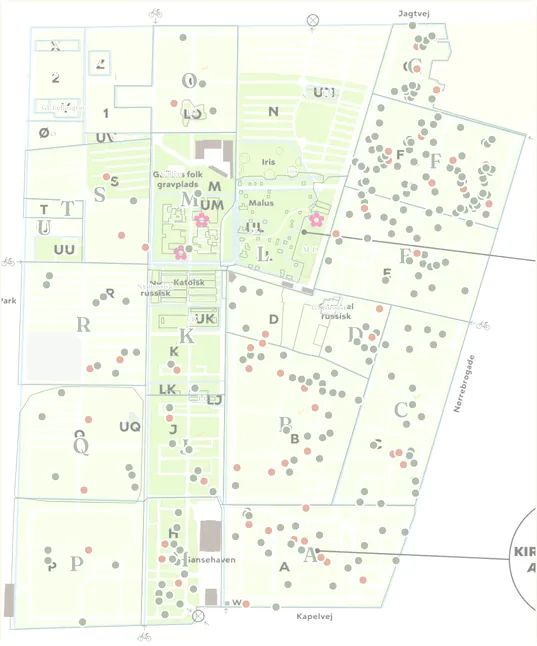
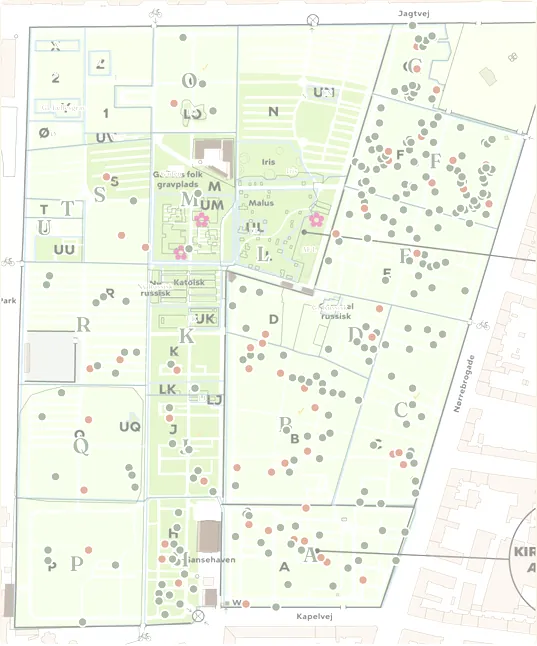
Skærmbilleder genskabt med OSM-laget; notat om dækning, pasning og licensopslag (#12)
scripts/grundkort_skaermbilleder.mjs: genskaber docs/grundkort/ (telefon
390 × 844, DPR 3, kalibrering tændt; lys/mørk, med/uden 🔲, sol-simulering,
luppen) med Playwright og Pillow, så sammenligningstavlen kan laves om, hver
gang grundlagene renderes.

NOTAT-grundkort.md: nyt afsnit "OSM: dækning og pasning" (673 elementer
inden for omridset; OSM-omrids mod kommunens polygoner median 0,3 m;
gadenavne-fejlen og rettelsen), filstørrelser med OSM-laget, og
rettighedsafsnittet efter opslag i opendata.dk's register (216 datasæt fra
Københavns Kommune, 196 CC BY 4.0, 2 CC0, ingen dækker de tre kirkegårdslag)
og WFS'ens GetCapabilities (Fees/AccessConstraints NONE). "Ikke gjort"
tilpasset: OSM gjort, licensen stadig ubekræftet, felttest og afdeling U
udestår.

diff --git a/NOTAT-grundkort.md b/NOTAT-grundkort.md
@@ -5,8 +5,8 @@ skal skiftes fra Københavns Kirkegårdes (KK) oversigtskort til projektets eget
 kort af åbne data. Notatet beskriver den tekniske plan, de tre designretninger,
 rettighederne, hvad en pitch skal kunne vise, og en felttest-protokol. Alt
 bygget i denne omgang ligger bag kalibreringsknapperne; besøgende ser stadig
-`kort.png`. Netadgangen fra sessionen var begrænset til GitHub og websøgning,
-så OSM-udtrækket kunne ikke hentes; hvad det betyder, står under “Ikke gjort”.*
+`kort.png`. OSM-udtrækket blev hentet 7. oktober fra en maskine med net; alle
+renderinger, tal og skærmbilleder i notatet er med OSM-laget (se “Ikke gjort”).*
 
 ## Konklusion i fem linjer
 
@@ -121,7 +121,7 @@ står øverst i scriptet). Ingen af filerne i `data/` kræver et `VERSION`-bump.
 
 ### Migrationen som commits
 
-1. **OSM-udtræk** (Simon, fra en maskine med netadgang): kør curl-kommandoen
+1. **OSM-udtræk** (gjort 7. oktober; gentages, når OSM er rettet): kør curl-kommandoen
    i `scripts/osm_slank.mjs`, læg svaret i `data/raw/osm_assistens.json`,
    kør `node scripts/osm_slank.mjs …` og `node scripts/kort_render.mjs`;
    commit `data/osm_assistens.json`, de genererede grundlag og
@@ -155,14 +155,15 @@ står øverst i scriptet). Ingen af filerne i `data/` kræver et `VERSION`-bump.
 kalibrering tændt ligger i `docs/grundkort/` (`<grundlag>_<lys|moerk>_<lag|uden>.webp`,
 `sol_*.webp` er sol-simuleringen, `lup_*.webp` luppen) og i PR'ens
 sammenligningstavle. Målinger: design-rapporten `/tmp/design/rapport.md`
-fra sessionen; tallene står i afsnit “Tal”. Alle renderinger er uden
-OSM-lag, så stier, mure, bygninger og gadenavne mangler i alle tre.*
+fra sessionen; tallene står i afsnit “Tal”. Skærmbillederne er genskabt
+7. oktober med `scripts/grundkort_skaermbilleder.mjs`, efter at OSM-laget kom
+ind: stier, mure, låger, bygninger og gadenavne er med i alle tre.*
 
 | | tegnet plan | stille kort | ortofoto med lag |
 |---|---|---|---|
 | **Idé** | streg og flade som en klassisk kirkegårdsplan: papir, blæk-konturer, Fraunces 600-bogstaver, svag kronetekstur og gravstedsprikker | flade, dæmpede mos-toner uden konturer, stier som lyse mellemrum, Outfit-bogstaver | GeoDanmarks forårsfoto dæmpet (lys: papirslør; mørk: nedtonet), så vektorlaget bærer bogstaver og grænser |
-| **For** | gentager headerens udtryk (Fraunces, papir/blæk); højeste kontrast (11:1 lys, 10:1 mørk); holder bedst i sol; en rigtig mørk udgave | roligst som baggrund for prikkerne; mindste fil (46 KB); markørerne træder tydeligst frem | viser det, man ser i felten (kroner, stier, tage); passer kommunens grænser inden for ca. 0,5 m; luppen får noget at sigte efter |
-| **Imod** | uden OSM fattigere end KK (ingen stier/låger); underafdelingsnavne 3 CSS-px på telefon; luppen viser kun tekstur | grænser og tekstur forsvinder helt i sol; bogstaver kun 4,9–5,3:1; Outfit-bogstaver bryder med headerens Fraunces | lys tilstand 3,3–3,5:1 for bogstav mod foto (haloen redder det); tungest (291 KB / 811 KB 2×); gråt foto mod papir/mos-paletten |
+| **For** | gentager headerens udtryk (Fraunces, papir/blæk); højeste kontrast (11:1 lys, 10:1 mørk); holder bedst i sol; en rigtig mørk udgave | roligst som baggrund for prikkerne; mindste fil (116 KB webp, 79 KB avif); markørerne træder tydeligst frem | viser det, man ser i felten (kroner, stier, tage); passer kommunens grænser inden for ca. 0,5 m; luppen får noget at sigte efter |
+| **Imod** | over budgettet med OSM-laget (256 KB webp, 133 KB avif); underafdelingsnavne 3 CSS-px på telefon; luppen viser kun tekstur | grænser og tekstur forsvinder helt i sol; bogstaver kun 4,9–5,3:1; Outfit-bogstaver bryder med headerens Fraunces | lys tilstand 3,3–3,5:1 for bogstav mod foto (haloen redder det); tungest (292 KB / 826 KB 2×); gråt foto mod papir/mos-paletten |
 | **Telefon i sol** | bedst: bogstaver 2,4:1 efter simuleringen, kontur og mur overlever | dårligst: fladen bliver hvid, kun bogstaverne står | bogstaverne holder via haloen; tynde grænser forsvinder først |
 | **Mørk tilstand** | 9,7–10,9:1, blænder ikke | 5,1–5,3:1, lidt gråt | 4,9–5,3:1 med SVG-laget; fotoet er dæmpet nok |
 
@@ -198,9 +199,10 @@ frarådes som standard på grund af sol. Valget bekræftes i felttesten
 
 *Ikke juridisk rådgivning. Kilderne til dette afsnit er samlet i rettigheds-
 rapporten fra sessionen (ODbL 1.0 og CC BY 4.0 læst i kopier på GitHub;
-OSMF's retningslinjer, ophavsretsloven og opendata.dk's vilkår kun som
-søgeuddrag, fordi siderne var blokeret). Alt, der kun hviler på søgeuddrag,
-bør tjekkes mod originalen, før det citeres i en pitch.*
+OSMF's retningslinjer og ophavsretsloven kun som søgeuddrag, fordi siderne
+var blokeret; opendata.dk's register og kommunens WFS er slået op direkte
+7. oktober). Alt, der kun hviler på søgeuddrag, bør tjekkes mod originalen,
+før det citeres i en pitch.*
 
 ### Hvad der er taget fra KK's kort, og hvad der bevidst ikke er
 
@@ -256,16 +258,18 @@ bør tjekkes mod originalen, før det citeres i en pitch.*
 
 ### Kommunens data og GeoDanmark
 
-- `trae_basis` har en datasætside på opendata.dk med licens CC BY 4.0. For
-  `kirkegd_afdelingsgr_1`, `kirkegd_gravsteder` og
-  `automatisk_detekterede_traeer_kk_beta` findes ingen datasætside, og
-  GetCapabilities oplyser ingen licens. Open Data DK's vilkår lader
-  dataejeren sætte licensen pr. datasæt, og kommunen bruger mindst ét andet
-  vilkårssæt (“Legepladser”), så “kommunens standardlicens” er en svagere
-  antagelse, end `data/README.md` lader forstå. **Forbehold:** CC BY 4.0 er
-  ikke bekræftet; spørg Københavns Kommune (Klima-, Miljø- og
-  Teknikforvaltningen, enheden bag kbhkort/WFS; kontaktpunktet står på
-  datasætsiden for Træ basis). Mail-udkast:
+- `trae_basis` har en datasætside på opendata.dk, hvor begge ressourcer er
+  mærket “CC_BY” (feltet `license_id` i CKAN-API'et er tomt). Slået op
+  7. oktober 2026 i opendata.dk's register (CKAN-API'et på admin.opendata.dk):
+  Københavns Kommune har 216 datasæt, 196 under CC BY 4.0, 2 under CC0 1.0
+  (“Toiletter TMF”, “Vejstøj 2022”) og 18 uden licensfelt. **Ingen** af dem
+  dækker `kirkegd_afdelingsgr_1`, `kirkegd_gravsteder` eller
+  `automatisk_detekterede_traeer_kk_beta`, og WFS'ens GetCapabilities siger
+  kun `Fees: NONE` og `AccessConstraints: NONE` uden licens pr. lag.
+  Licensen sættes altså pr. datasæt (CC0 forekommer), så “kommunens
+  standardlicens” er en antagelse. **Forbehold:** CC BY 4.0 er ikke
+  bekræftet for de tre lag; spørg Bydata, Københavns Kommune (bydata@kk.dk,
+  dataejer ifølge WFS'en og datasætsiden for Træ basis). Mail-udkast:
 
   > **Emne:** Licens for WFS-lagene kirkegd_afdelingsgr_1 og kirkegd_gravsteder
   >
@@ -360,21 +364,27 @@ KB = 1024 byte; webp med Pillow quality 85, avif quality 62). Målet er
 
 | Grundlag (1×, 1400 × 1216) | PNG | WebP | AVIF | 2× WebP | 2× AVIF |
 |---|--:|--:|--:|--:|--:|
-| tegnet plan, lys | 564 | **83** | 63 | 209 | 139 |
-| tegnet plan, mørk | 543 | 78 | 55 | 203 | 127 |
-| stille kort, lys | 477 | **46** | 34 | 113 | 71 |
-| stille kort, mørk | 436 | 36 | 27 | 91 | 57 |
-| ortofoto, lys | 2639 | **291** | 207 | 811 | 634 |
-| ortofoto, mørk | 2329 | 205 | 152 | 589 | 461 |
-| `afdelinger.svg` | | 24 | | | |
+| tegnet plan, lys | 681 | **256** | 133 | 675 | 301 |
+| tegnet plan, mørk | 657 | 254 | 131 | 671 | 296 |
+| stille kort, lys | 546 | **116** | 79 | 271 | 170 |
+| stille kort, mørk | 526 | 102 | 70 | 236 | 148 |
+| ortofoto, lys | 2628 | **292** | 208 | 826 | 638 |
+| ortofoto, mørk | 2351 | 208 | 154 | 576 | 465 |
+| `afdelinger.svg` | | 129 | | | |
 
-Tegnet plan og stille kort ligger under det nuværende `kort.webp` selv som
-1×-webp, og selv 2×-avif til skarpe skærme (127–139 KB for tegnet plan,
-57–71 KB for stille kort) er mindre end dagens png.
-Ortofotoet ligger 2–3 gange over budgettet i 1× og 6–8 gange i 2×; det kan
-være et lag, der hentes på forlangende (som i dag), ikke et standardgrundlag
-offline. Renderingerne er **uden OSM-lag** (se “Ikke gjort”); stier,
-bygninger og gadenavne vil lægge nogle få KB til tegnet plan og stille kort.
+Tallene er med OSM-laget (7. oktober). Uden laget var tegnet plan 83 KB og
+stille kort 46 KB som webp og `afdelinger.svg` 24 KB, så OSM-laget (nabo-
+karréernes bygninger, stierne, murene og gadenavnene) koster tegnet plan
+ca. 170 KB og stille kort ca. 70 KB i 1×-webp; hvad hver del vejer, er ikke
+målt. Stille kort ligger nu omtrent på budgettet (116 KB webp mod
+`kort.webp`s 102, 79 KB avif mod `kort.avif`s 76), tegnet plan 2,5 gange over
+som webp og 1,75 gange over som avif. To greb, der ikke er prøvet: tegn
+bygninger uden for muren som flade uden skravering, og klip OSM-laget til en
+smal bræmme om kirkegården. `afdelinger.svg` bærer nu også mure og bygninger
+for hele udsnittet; Pages sender den gzippet, så 129 KB bliver langt mindre
+over nettet. Ortofotoet ligger 3 gange over budgettet i 1× og 8 gange i 2×;
+det kan være et lag, der hentes på forlangende (som i dag), ikke et
+standardgrundlag offline.
 
 ### FRACS mod polygoncentroider (0,46 m pr. pixel)
 
@@ -462,35 +472,82 @@ fra 0,107 til 0,069, ortofotoets fra 0,105 til 0,080.
 
 ### Pasning: kommunens polygoner mod ortofotoet
 
-OSM kunne ikke hentes, så pasningen er målt for kommunens afdelingsgrænser
+Pasningen er målt for kommunens afdelingsgrænser
 mod ortofotoet i 14 udsnit på 120 × 120 px (`/tmp/design/pasning_*.png`,
 øjemål ±1 px). 11 kunne aflæses: median 1 px = 0,46 m, største 5 px =
 2,3 m (ydermurens hjørne i A, hvor polygonen skærer hjørnet af); inde i
 parken følger grænserne hække og stier inden for ca. 0,5 m. Tre punkter
 (nordkanten langs Jagtvej, stikrydset ved Ny Russisk, R's vestkant) var
-dækket af kroner eller skygge. Det, OSM skal levere (eller som tegnes af
-efter ortofotoet, hvis OSM er tynd): stierne inde i afdelingerne, murene,
-lågerne, kapellerne og bygningerne, gadenavnene og Runddelen; de brede
-grusstier, tagene og teglmuren langs Nørrebrogade ses skarpt på fotoet,
-nordmuren ved Jagtvej gør ikke.
+dækket af kroner eller skygge. Det, OSM leverer, står i næste afsnit; de
+brede grusstier, tagene og teglmuren langs Nørrebrogade ses skarpt på
+fotoet, nordmuren ved Jagtvej gør ikke.
+
+### OSM: dækning og pasning (kriterium 4)
+
+Udtrækket (Overpass, OSM-basis 7. oktober 2026 18:29 UTC; bbox
+55,687–55,695 N, 12,543–12,556 Ø, plus way 3099111) har 2.798 elementer
+(1.377 noder, 1.397 ways, 24 relationer), 1,5 MB råt og 462 KB slanket.
+673 af dem ligger inden for kirkegårdens omrids. Målt med et lille script i
+sessionen (afstande i `kort.png`'s pixelnet, 0,46 m/px):
+
+- **Stier:** 154 `footway` (10,8 km), 51 `path` (3,2 km), 2 `cycleway`
+  (Hans Tavsens Stien, Poppelalléen) og 5 `service`; 125 af de 212
+  stistykker har `surface` (compacted 39, fine_gravel 38, asphalt 13,
+  dirt 12, grass 11).
+- **Mure, hegn, låger:** 12 murstykker (2,6 km), 2 hegn, 59 hække (1,0 km);
+  6 `barrier=gate`, 1 `entrance` og 1 drejekors. Lågerne tegnes som
+  åbninger i nærmeste mur.
+- **Bygninger:** kapellet (`building=chapel`) og 13 andre (7 `yes`,
+  4 skure, 1 `government`, 1 `service`).
+- **Andet:** 10 `historic=tomb` med navn (H.C. Andersen, Niels Bohr,
+  Dan Turèll, Martin Andersen Nexø m.fl.) og Ben Websters mindesten;
+  47 bænke, 4 drikkevandsposter, 3 toiletter; 287 `natural=tree`, som
+  bevidst ikke tegnes og aldrig må kopieres til `positions.json` (afsnit 3).
+- **Gadenavne:** 15 navngivne gader rører rammen. Første rendering viste
+  kun fem (Jagtvej, Meinungsgade, Peter Fabers Gade, Struenseegade og et for
+  kort stykke af Frederik VII's Gade), fordi scriptet valgte den længste
+  strækning pr. navn i hele bbox'en, og Nørrebrogades og Kapelvejs længste
+  stykker ligger uden for billedet. Rettet i `kort_render.mjs` (strækninger
+  med samme navn sammenføjes, klippes til rammen, og den længste del inden
+  for rammen vinder): nu står også Nørrebrogade, Kapelvej, Sjællandsgade,
+  Prinsesse Charlottes Gade og Hans Egedes Gade.
+
+Pasning mellem OSM og kommunens polygoner (samme affine afbildning for
+begge):
+
+- OSM's omrids (way 3099111, 37 punkter) mod nærmeste kant i kommunens
+  afdelingspolygoner: median 0,3 m, middel 1,1 m, 90 %-fraktil 1,7 m. Tre
+  punkter ligger 4–16 m væk (ydermuren ved Jagtvej nord for G: 16 m; to
+  punkter på vestsiden mod Hans Tavsens Park: 7 og 4 m), hvor kommunens
+  afdelinger ikke når ud til muren; det er dækning, ikke forskydning.
+- Omvendt har de 74 af kommunens 1.881 polygonpunkter, der ligger inden for
+  10 px af OSM-omridset, median 0,4 m til det.
+- OSM's mure (55 punkter på eller ved kirkegården) mod kommunens
+  polygonkanter: median 0,3 m, 90 %-fraktil 6,7 m (de store afstande er
+  murstykker, der ikke følger en afdelingsgrænse).
+
+Sammen med polygonernes pasning mod ortofotoet (median 0,5 m, ovenfor)
+betyder det, at OSM's stier og mure kan ligge i samme pixelnet som
+afdelingerne uden lokal tilpasning. OSM er ikke målt direkte mod
+ortofotoet; lågerne og stikrydsene tjekkes i felttesten (afsnit 5).
 
 ## Ikke gjort herfra, og hvorfor
 
-- **OSM-udtrækket.** Sessionens netværkspolitik tillod kun GitHub og
-  websøgning; Overpass (begge servere), OSM's API og WebFetch mod dem gav
-  alle “CONNECT tunnel failed, 403”. Derfor findes `data/osm_assistens.json`
-  ikke, og renderingerne er uden stier, mure, bygninger, låger og
-  gadenavne. Det, der skal gøres: fra en maskine med net, kør
-  curl-kommandoen øverst i `scripts/osm_slank.mjs` (den gemmer svaret som
-  `data/raw/osm_assistens.json`), derefter
-  `node scripts/osm_slank.mjs data/raw/osm_assistens.json data/osm_assistens.json`
-  og `node scripts/kort_render.mjs`. Scriptet læser både Overpass-svar og
-  OSM-API-svar; OSM-tegningen er kun prøvet på et syntetisk fixture.
-- **Dækning og pasning af OSM** (kriterium 4) kunne af samme grund ikke
-  måles mod ortofotoet. Pasningen af *kommunens* polygoner mod ortofotoet
-  er målt i stedet (afsnit “Tal”).
-- **Licensen på afdelingslaget** kunne ikke bekræftes (opendata.dk og
-  kk.dk var blokeret); mail-udkast i afsnit 3.
+- **OSM-udtrækket** er hentet 7. oktober fra en maskine med net
+  (cloud-sessionens netværkspolitik blokerede Overpass og OSM's API).
+  overpass-api.de svarer 406 på curls standard-User-Agent, så
+  curl-kommandoen i `scripts/osm_slank.mjs` sætter `-A` med projektets navn.
+  Slankning, rendering og skærmbilleder er kørt igen; dækning og pasning
+  står i “Tal”. OSM's stier og låger er frivilliges aftegning og tjekkes i
+  felten (afsnit 5).
+- **Pasning af OSM mod ortofotoet** er ikke målt direkte; OSM er målt mod
+  kommunens polygoner (median 0,3 m) og polygonerne mod ortofotoet
+  (median 0,5 m).
+- **Licensen på afdelingslaget** er stadig ubekræftet, nu efter opslag i
+  originalerne (afsnit 3): opendata.dk har ingen datasætside for de tre lag,
+  og WFS'ens GetCapabilities siger kun `Fees: NONE` og
+  `AccessConstraints: NONE`. Mail-udkastet i afsnit 3 kan sendes til
+  bydata@kk.dk.
 - **Afdeling U** har ingen åben datakilde; grænsen skal tegnes af efter
   ortofotoet (felttest punkt 7) eller hentes hos kommunen.
 - **KK's tilladelse til det nuværende kort** er stadig udokumenteret; den

diff --git a/README.md b/README.md
@@ -69,8 +69,9 @@ rådgivning.
   gravstederne). Licens
   [CC BY 4.0](https://creativecommons.org/licenses/by/4.0/deed.da) ifølge
   datasætsiden for [Træ basis på opendata.dk](https://www.opendata.dk/city-of-copenhagen/trae-basis-kommunale-traeer);
-  for de tre øvrige lag er licensen *ikke bekræftet* (ingen datasætside,
-  intet i WFS'ens GetCapabilities) og skal bekræftes hos kommunen (se
+  for de tre øvrige lag er licensen *ikke bekræftet* (ingen datasætside
+  blandt kommunens 216 på opendata.dk, intet i WFS'ens GetCapabilities;
+  tjekket 7. oktober 2026) og skal bekræftes hos kommunen (se
   `data/README.md`).
 - Ortofoto forår 2025 (`data/orto_kort_2025.jpg`): indeholder data fra
   GeoDanmark / Klimadatastyrelsen, hentet 5. oktober 2026 via
